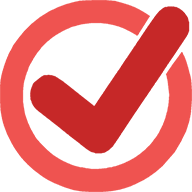
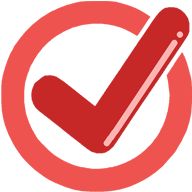
Fix immagini con riflesso

diff --git a/assets/js/utils.js b/assets/js/utils.js
@@ -1,3 +1,3 @@
-export const APP_VERSION = "1.7.0"
+export const APP_VERSION = "1.7.1"
 export const SUPPORT_EMAIL = "matteosteri+sportchecklist@gmail.com";
 export const PLAY_STORE_URL = "";

diff --git a/service-worker.js b/service-worker.js
@@ -1,4 +1,4 @@
-const CACHE_NAME="1.7.0"
+const CACHE_NAME="1.7.1"
 
 const urlsToCache=[
 
